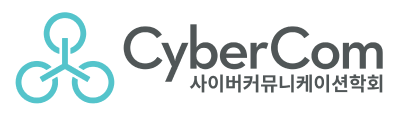
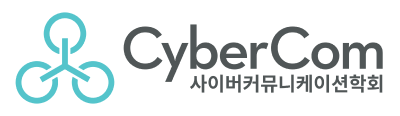
Pushed from Locofy Builder

diff --git a/pages/skeleton-sub-example.tsx b/pages/skeleton-sub-example.tsx
@@ -36,11 +36,11 @@ const SkeletonSubExample: NextPage = () => {
             </div>
           </div>
           <div className="self-stretch bg-bg-colors-light-gray h-[4.375rem] flex flex-col items-center justify-center">
-            <div className="w-full flex-1 flex flex-row items-start justify-between py-[0rem] px-[0.937rem] box-border max-w-[81.25rem]">
-              <div className="w-[20.313rem] flex flex-row items-center justify-start">
-                <button className="cursor-pointer [border:none] p-0 bg-[transparent] flex flex-col items-start justify-center">
+            <div className="w-full flex-1 flex flex-row items-center justify-between py-[0rem] px-[0.937rem] box-border max-w-[81.25rem]">
+              <div className="self-stretch w-[20.313rem] flex flex-row items-center justify-start">
+                <button className="cursor-pointer [border:none] p-0 bg-[transparent] self-stretch flex flex-col items-start justify-center">
                   <img
-                    className="w-[12.5rem] relative h-[3.613rem] object-cover mq420:w-[6.438rem] mq420:h-[1.875rem]"
+                    className="w-[12.5rem] relative h-[3.613rem] object-cover mq420:w-[9.375rem] mq420:h-[2.688rem]"
                     alt="CyberComLogo"
                     loading="eager"
                     src="/navbarbrand@2x.png"
@@ -49,42 +49,42 @@ const SkeletonSubExample: NextPage = () => {
               </div>
               <div className="self-stretch flex-1 flex flex-row items-center justify-between md:hidden">
                 <div className="self-stretch flex-1 flex flex-col items-center justify-start">
-                  <button className="cursor-pointer [border:none] pt-spacing-4 px-spacing-0-5 pb-spacing-8 bg-[transparent] self-stretch flex-1 flex flex-col items-center justify-start">
+                  <button className="cursor-pointer [border:none] pt-spacing-5 px-spacing-0-5 pb-spacing-7 bg-[transparent] self-stretch flex-1 flex flex-col items-center justify-start">
                     <b className="self-stretch relative text-[1.125rem] leading-[1.25rem] font-headings-headling-2 text-text-colors-normal text-center hover:text-button-colors-dark-sky">
                       학회 소개
                     </b>
                   </button>
                 </div>
                 <div className="self-stretch flex-1 flex flex-col items-center justify-start">
-                  <button className="cursor-pointer [border:none] pt-spacing-4 px-spacing-0-5 pb-spacing-8 bg-[transparent] self-stretch flex-1 flex flex-col items-center justify-start">
+                  <button className="cursor-pointer [border:none] pt-spacing-5 px-spacing-0-5 pb-spacing-7 bg-[transparent] self-stretch flex-1 flex flex-col items-center justify-start">
                     <b className="self-stretch relative text-[1.125rem] leading-[1.25rem] font-headings-headling-2 text-text-colors-normal text-center hover:text-button-colors-dark-sky">
                       학회 소식
                     </b>
                   </button>
                 </div>
                 <div className="self-stretch flex-1 flex flex-col items-center justify-start">
-                  <button className="cursor-pointer [border:none] pt-spacing-4 px-spacing-0-5 pb-spacing-8 bg-[transparent] self-stretch flex-1 flex flex-col items-center justify-start">
+                  <button className="cursor-pointer [border:none] pt-spacing-5 px-spacing-0-5 pb-spacing-7 bg-[transparent] self-stretch flex-1 flex flex-col items-center justify-start">
                     <b className="self-stretch relative text-[1.125rem] leading-[1.25rem] font-headings-headling-2 text-text-colors-normal text-center hover:text-button-colors-dark-sky">
                       학술지
                     </b>
                   </button>
                 </div>
                 <div className="self-stretch flex-1 flex flex-col items-center justify-start">
-                  <button className="cursor-pointer [border:none] pt-spacing-4 px-spacing-0-5 pb-spacing-8 bg-[transparent] self-stretch flex-1 flex flex-col items-center justify-start">
+                  <button className="cursor-pointer [border:none] pt-spacing-5 px-spacing-0-5 pb-spacing-7 bg-[transparent] self-stretch flex-1 flex flex-col items-center justify-start">
                     <b className="self-stretch relative text-[1.125rem] leading-[1.25rem] font-headings-headling-2 text-text-colors-normal text-center hover:text-button-colors-dark-sky">
                       게시판
                     </b>
                   </button>
                 </div>
                 <div className="self-stretch flex-1 flex flex-col items-center justify-start">
-                  <button className="cursor-pointer [border:none] pt-spacing-4 px-spacing-0-5 pb-spacing-8 bg-[transparent] self-stretch flex-1 flex flex-col items-center justify-start">
+                  <button className="cursor-pointer [border:none] pt-spacing-5 px-spacing-0-5 pb-spacing-7 bg-[transparent] self-stretch flex-1 flex flex-col items-center justify-start">
                     <b className="self-stretch relative text-[1.125rem] leading-[1.25rem] font-headings-headling-2 text-text-colors-normal text-center hover:text-button-colors-dark-sky">
                       회원 공간
                     </b>
                   </button>
                 </div>
                 <div className="self-stretch flex-1 flex flex-col items-center justify-start">
-                  <button className="cursor-pointer [border:none] pt-spacing-4 px-spacing-0-5 pb-spacing-8 bg-[transparent] self-stretch flex-1 flex flex-col items-center justify-start">
+                  <button className="cursor-pointer [border:none] pt-spacing-5 px-spacing-0-5 pb-spacing-7 bg-[transparent] self-stretch flex-1 flex flex-col items-center justify-start">
                     <b className="self-stretch relative text-[1.125rem] leading-[1.25rem] font-headings-headling-2 text-text-colors-normal text-center hover:text-button-colors-dark-sky">
                       자료실
                     </b>

diff --git a/components/header.tsx b/components/header.tsx
@@ -34,11 +34,11 @@ const Header: NextPage = () => {
         </div>
       </div>
       <div className="self-stretch bg-bg-colors-light-gray h-[70px] flex flex-col items-center justify-center">
-        <div className="w-full flex-1 flex flex-row items-start justify-between py-0 px-[15px] box-border max-w-[1300px]">
-          <div className="w-[325px] flex flex-row items-center justify-start">
-            <button className="cursor-pointer [border:none] p-0 bg-[transparent] flex flex-col items-start justify-center">
+        <div className="w-full flex-1 flex flex-row items-center justify-between py-0 px-[15px] box-border max-w-[1300px]">
+          <div className="self-stretch w-[325px] flex flex-row items-center justify-start">
+            <button className="cursor-pointer [border:none] p-0 bg-[transparent] self-stretch flex flex-col items-start justify-center">
               <img
-                className="w-[200px] relative h-[57.8px] object-cover mq420:w-[103px] mq420:h-[30px]"
+                className="w-[200px] relative h-[57.8px] object-cover mq420:w-[150px] mq420:h-[43px]"
                 alt="CyberComLogo"
                 loading="eager"
                 src="/navbarbrand@2x.png"

diff --git a/components/item-menu-main.tsx b/components/item-menu-main.tsx
@@ -6,7 +6,7 @@ export type ItemMenuMainType = {
 
 const ItemMenuMain: NextPage<ItemMenuMainType> = ({ title }) => {
   return (
-    <button className="cursor-pointer [border:none] pt-spacing-4 px-spacing-0-5 pb-spacing-8 bg-[transparent] flex flex-col items-center justify-start box-border self-stretch flex-1">
+    <button className="cursor-pointer [border:none] pt-spacing-5 px-spacing-0-5 pb-spacing-7 bg-[transparent] flex flex-col items-center justify-start box-border self-stretch flex-1">
       <b className="self-stretch relative text-lg leading-[20px] font-headings-headling-2 text-text-colors-normal text-center hover:text-button-colors-dark-sky">
         {title}
       </b>

diff --git a/tailwind.config.js b/tailwind.config.js
@@ -33,8 +33,8 @@ module.exports = {
         "spacing-5": "20px",
         "spacing-0-5": "2px",
         "spacing-2-5": "10px",
+        "spacing-7": "28px",
         "spacing-4": "16px",
-        "spacing-8": "32px",
         "spacing-1": "4px",
         "spacing-2": "8px",
       },
